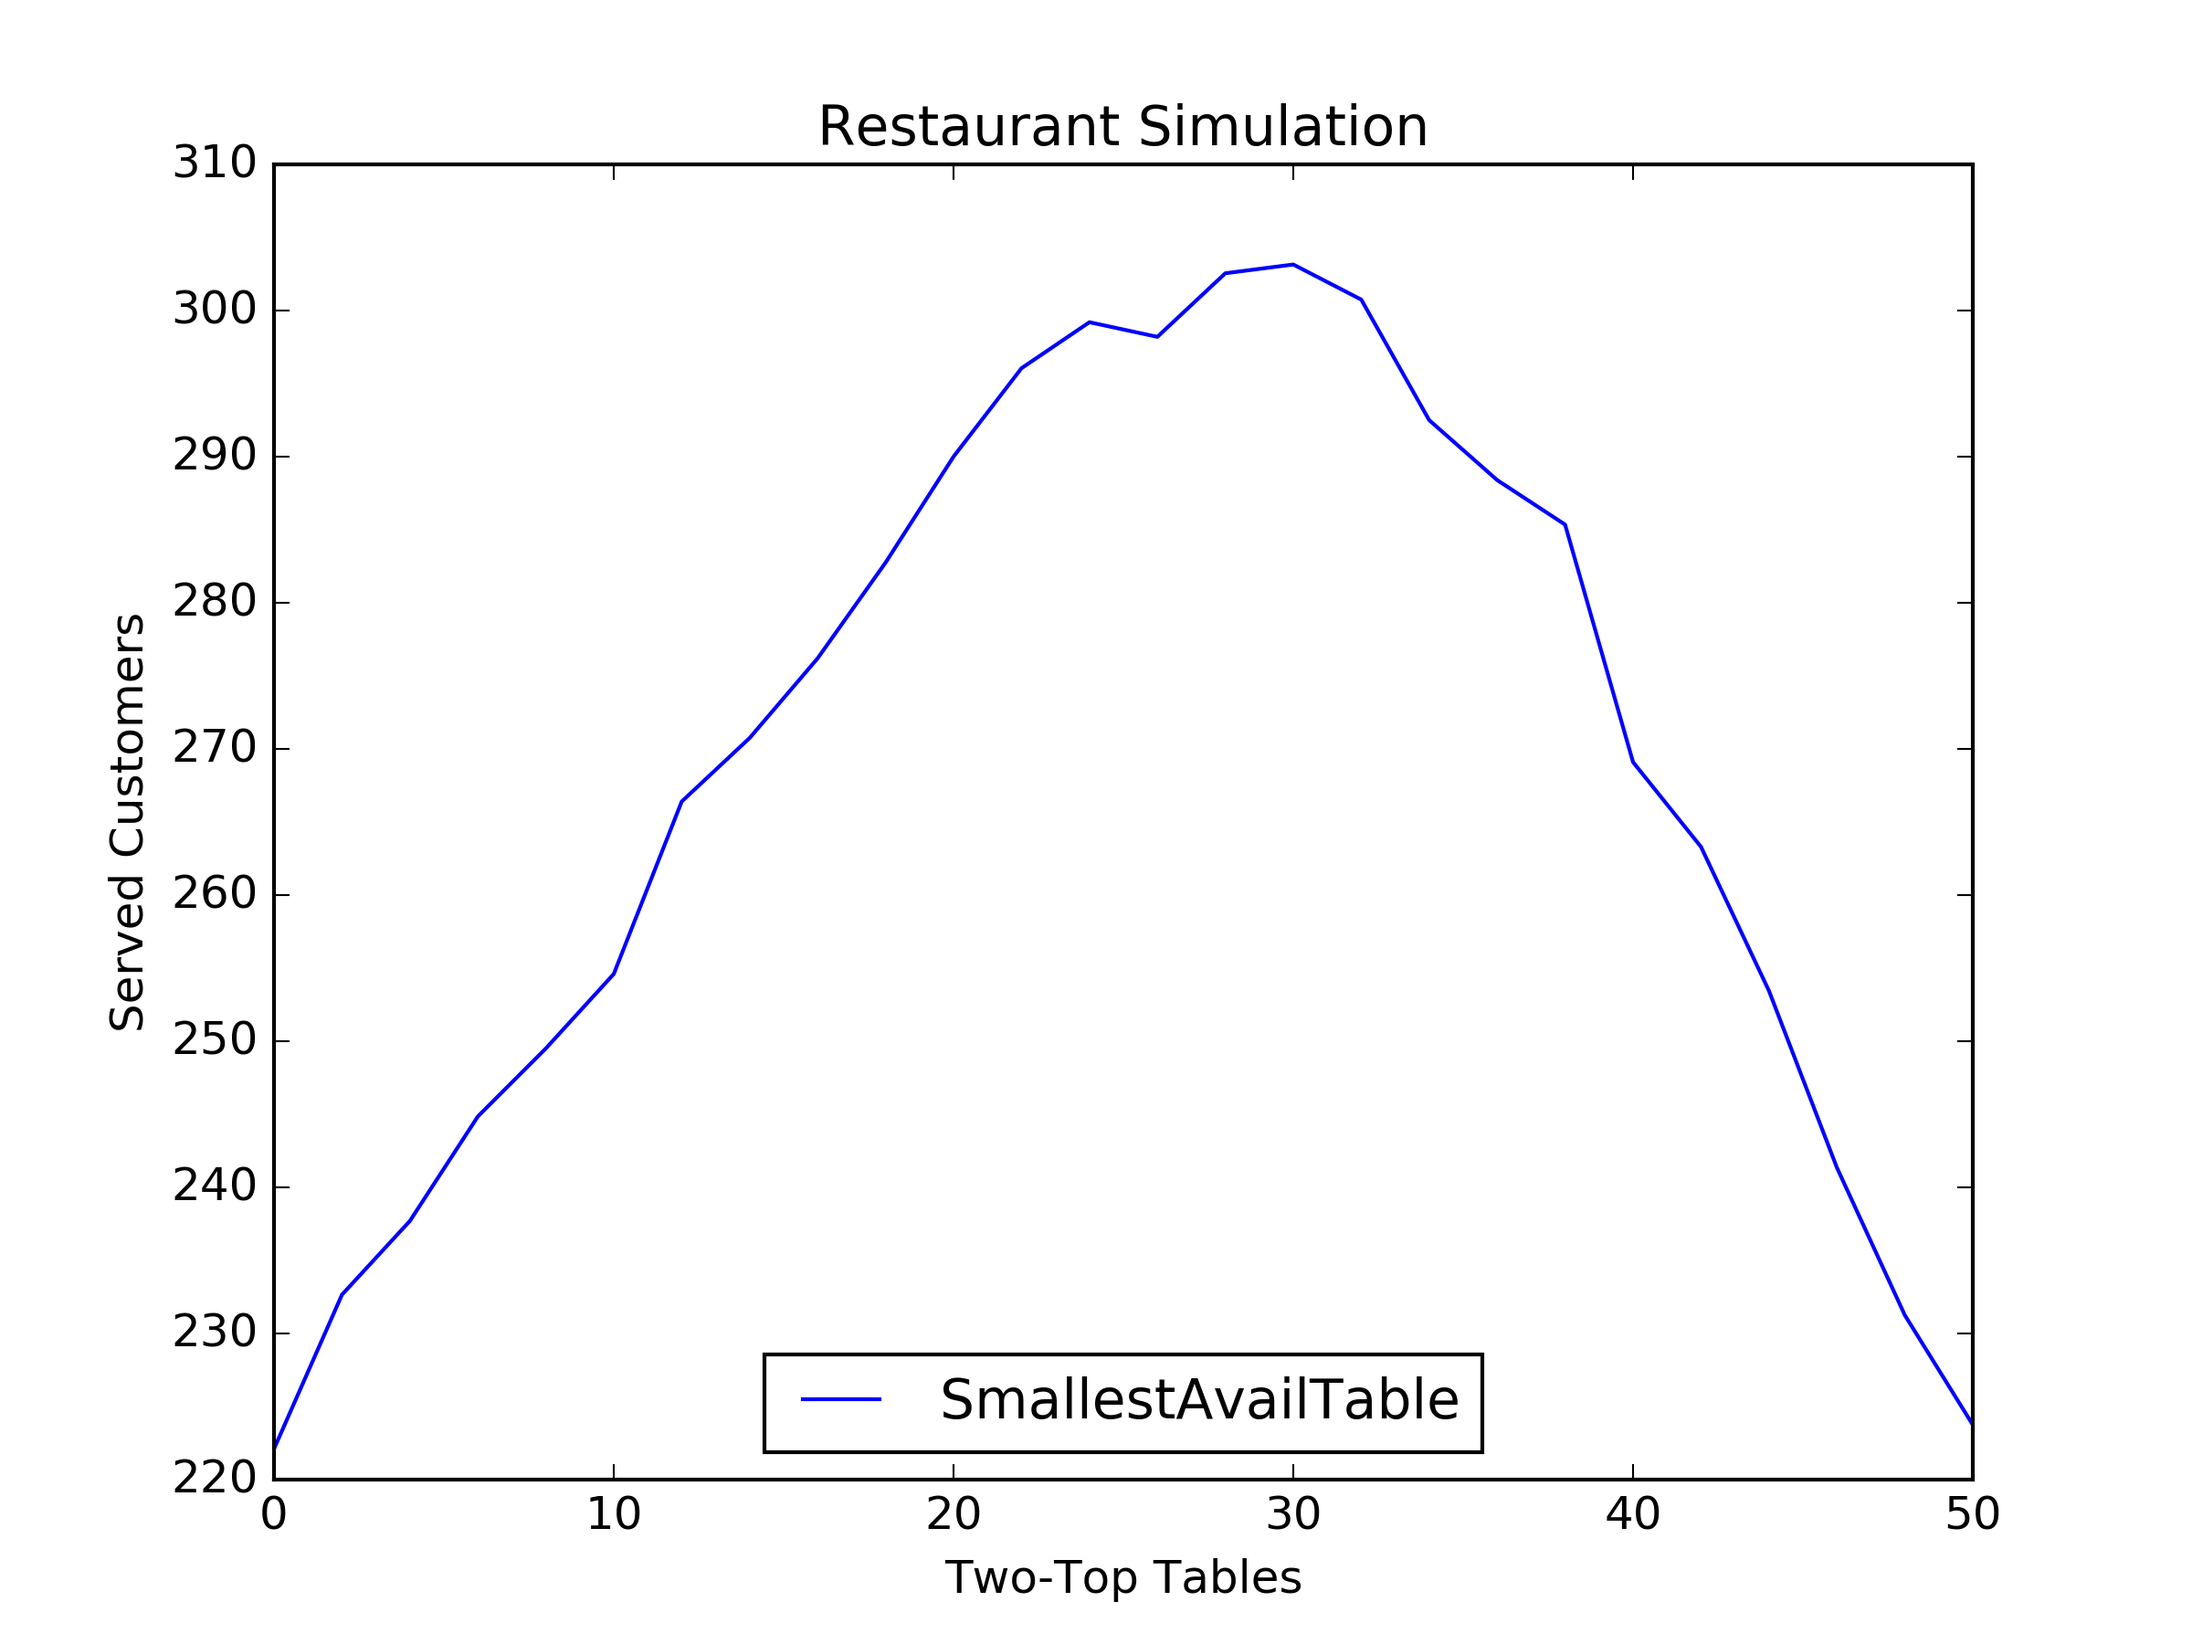
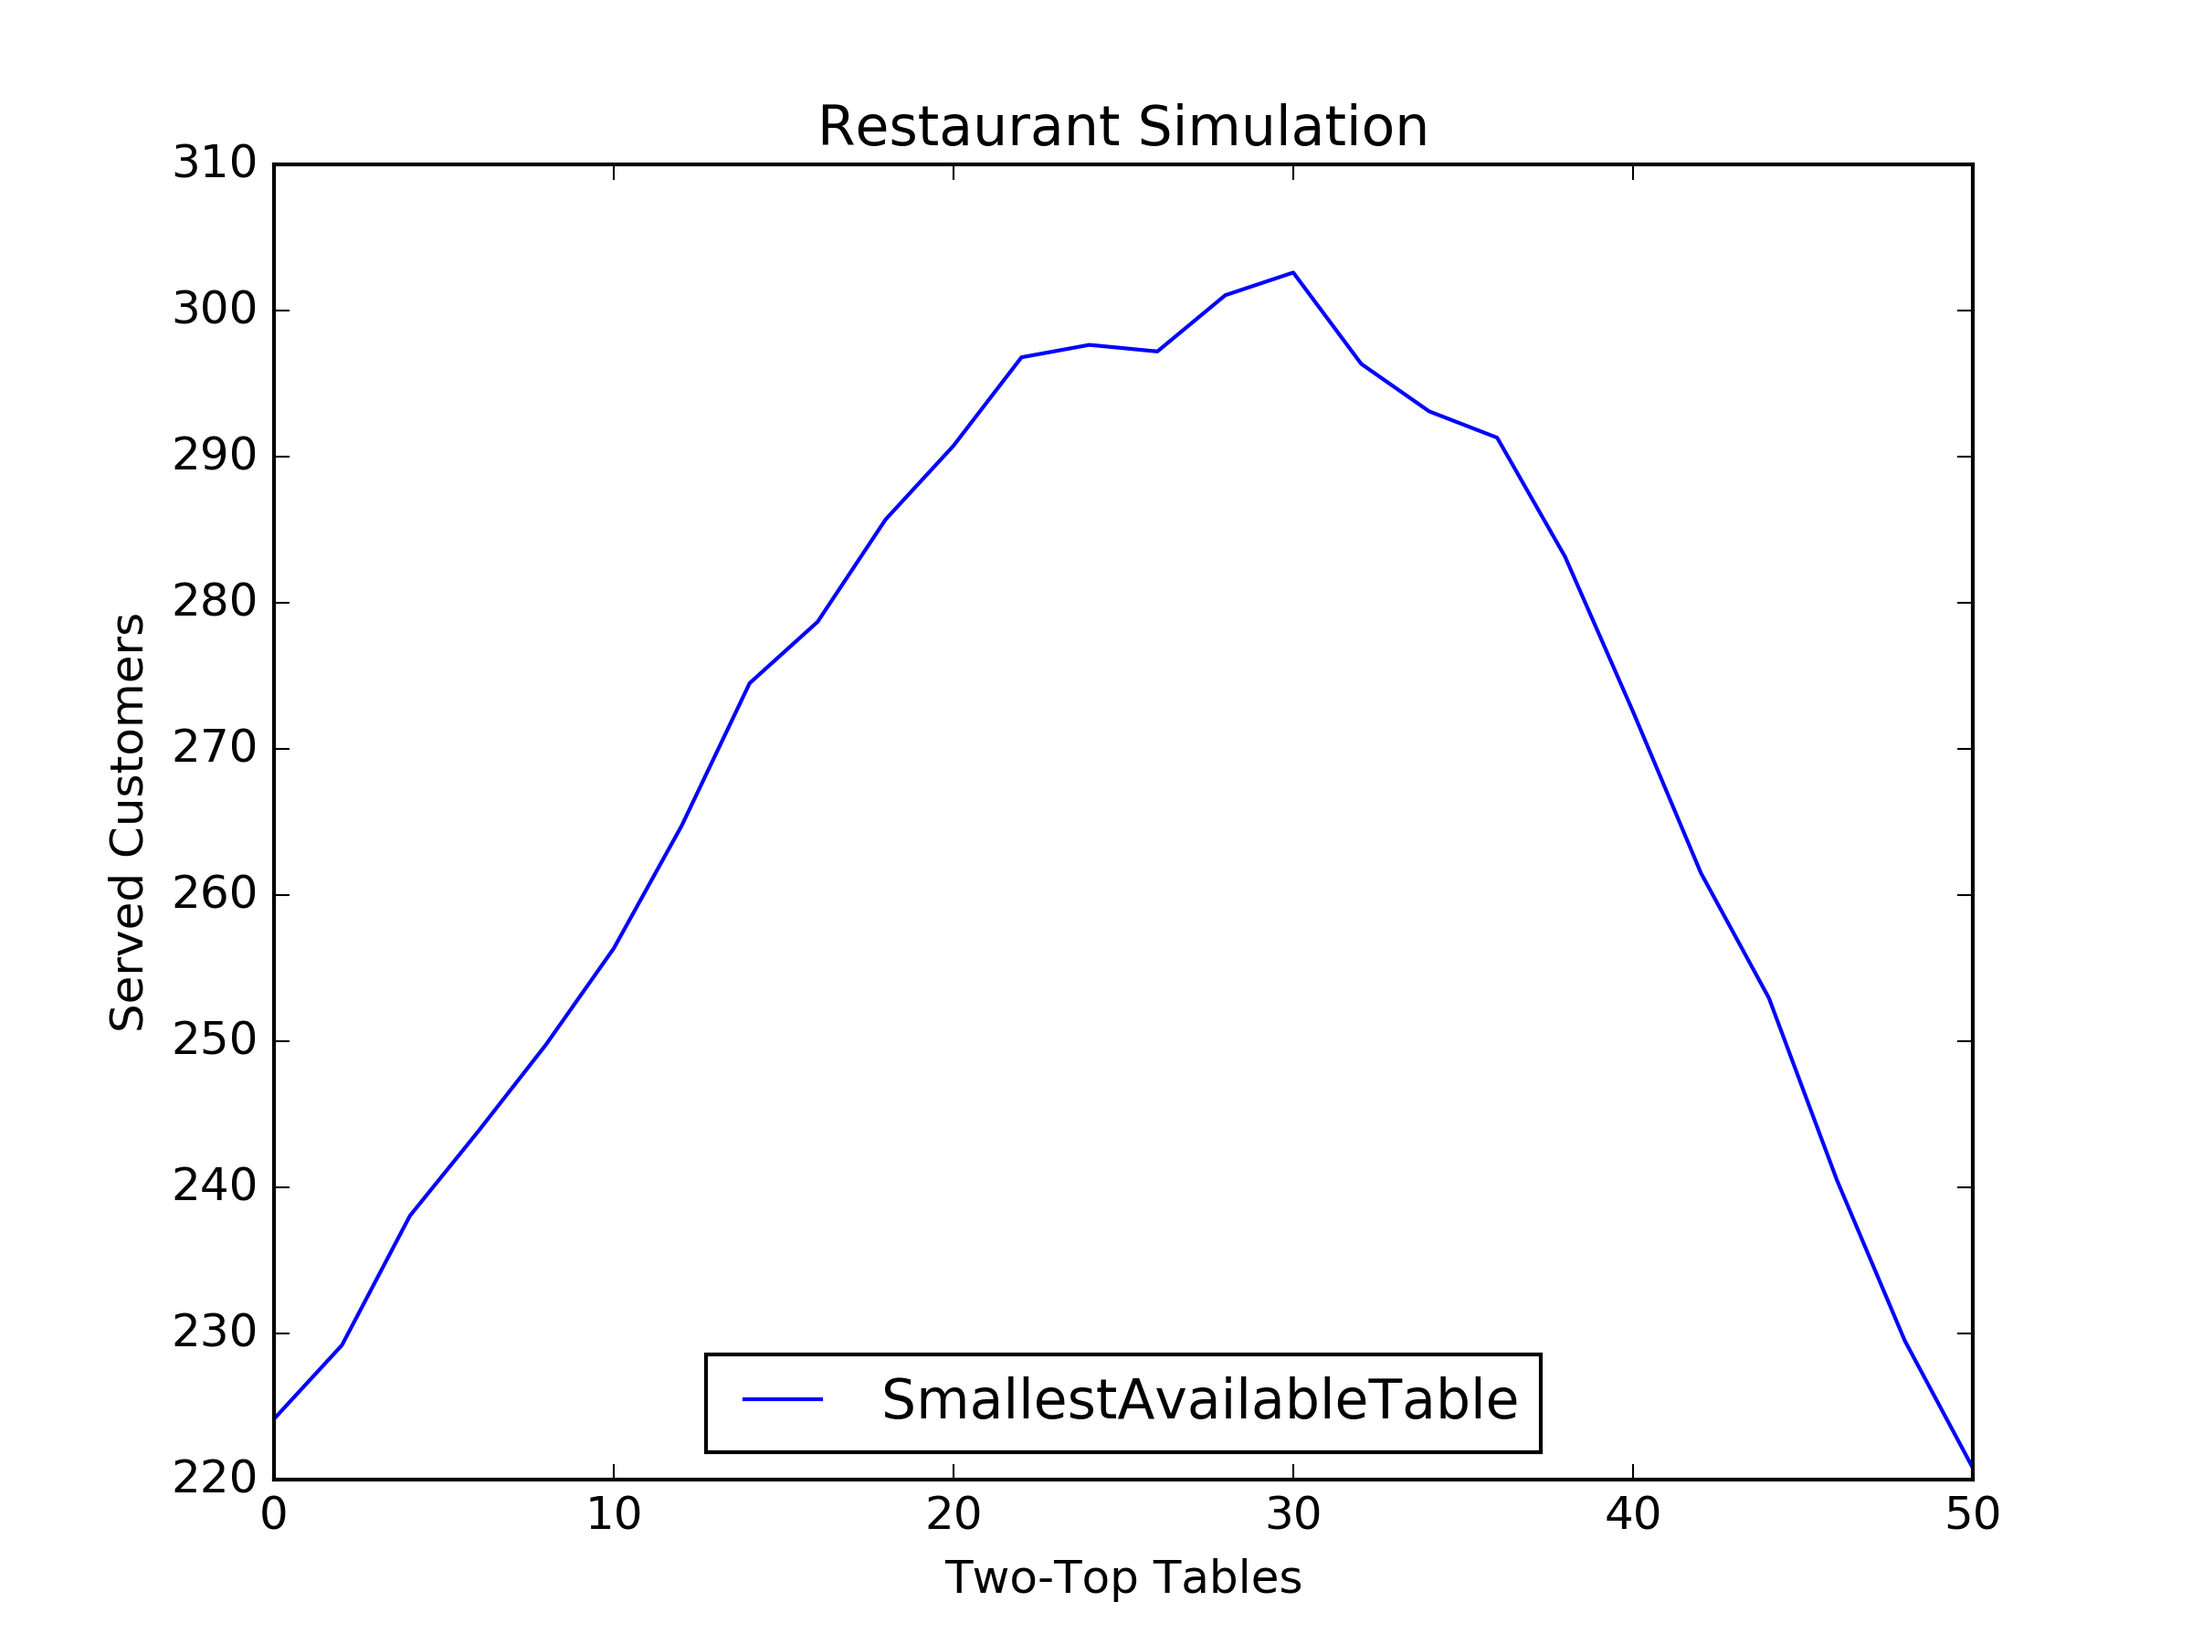
code cleanup

diff --git a/RestaurantSimulation/RestaurantSimulation.py b/RestaurantSimulation/RestaurantSimulation.py
@@ -73,9 +73,6 @@ class RestaurantSimulation(object):
         
         meanCustomerServed = N.mean(totalServedCustomers)
         stdCustomerServed = N.std(totalServedCustomers)
-        print meanCustomerServed
-        print 'numpy: ', totalServedCustomers
-        print 'std: ', stdCustomerServed
         return meanCustomerServed, stdCustomerServed
         
     def simulateTables(self):
@@ -87,8 +84,7 @@ class RestaurantSimulation(object):
             tableSortedDefinition = sorted(tableDefinition, key = lambda l:l[1])       
             statistics = self.simulateMultiple(tableSortedDefinition)
             twoTopTables.append(twoTops)
-            customers.append(statistics[0])
-            print twoTops, " ", statistics[0]            
+            customers.append(statistics[0])           
         return twoTopTables, customers
 
     def simulate(self):
@@ -99,8 +95,8 @@ class RestaurantSimulation(object):
 
         self.sittingMethod = Restaurant.sitPartySmallestAvailTable
         setupData = self.simulateTables()
-        self.plotCustomerData(setupData[0], setupData[1], 2, "data2.png", "SmallestAvailTable")
-        self.plotCustomerData(setupData[0], setupData[1], 10, "All data.png", "SmallestAvailTable")
+        self.plotCustomerData(setupData[0], setupData[1], 2, "data2.png", "SmallestAvailableTable")
+        self.plotCustomerData(setupData[0], setupData[1], 10, "All data.png", "SmallestAvailableTable")
 
         self.sittingMethod = Restaurant.sitPartyRandomly
         setupData = self.simulateTables()
